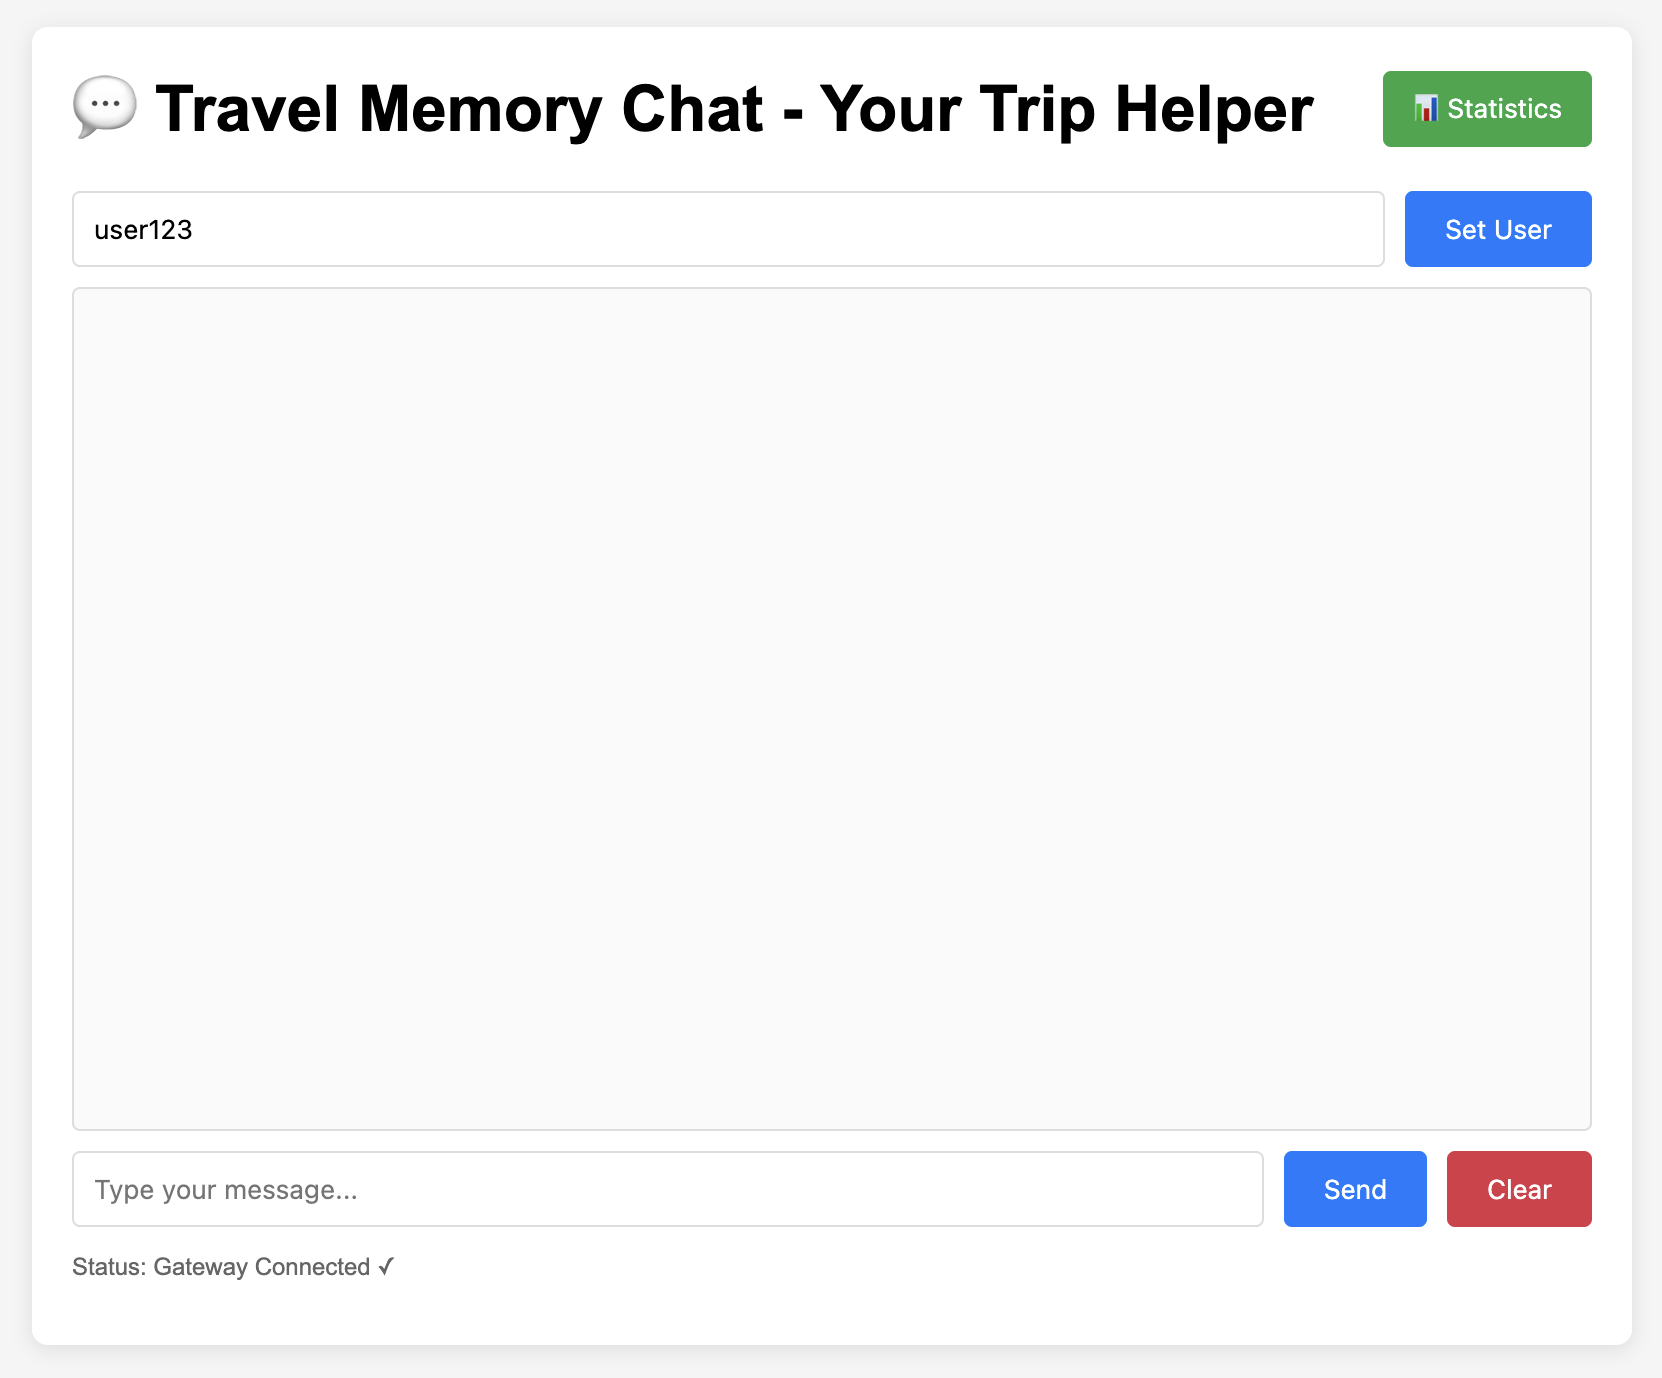
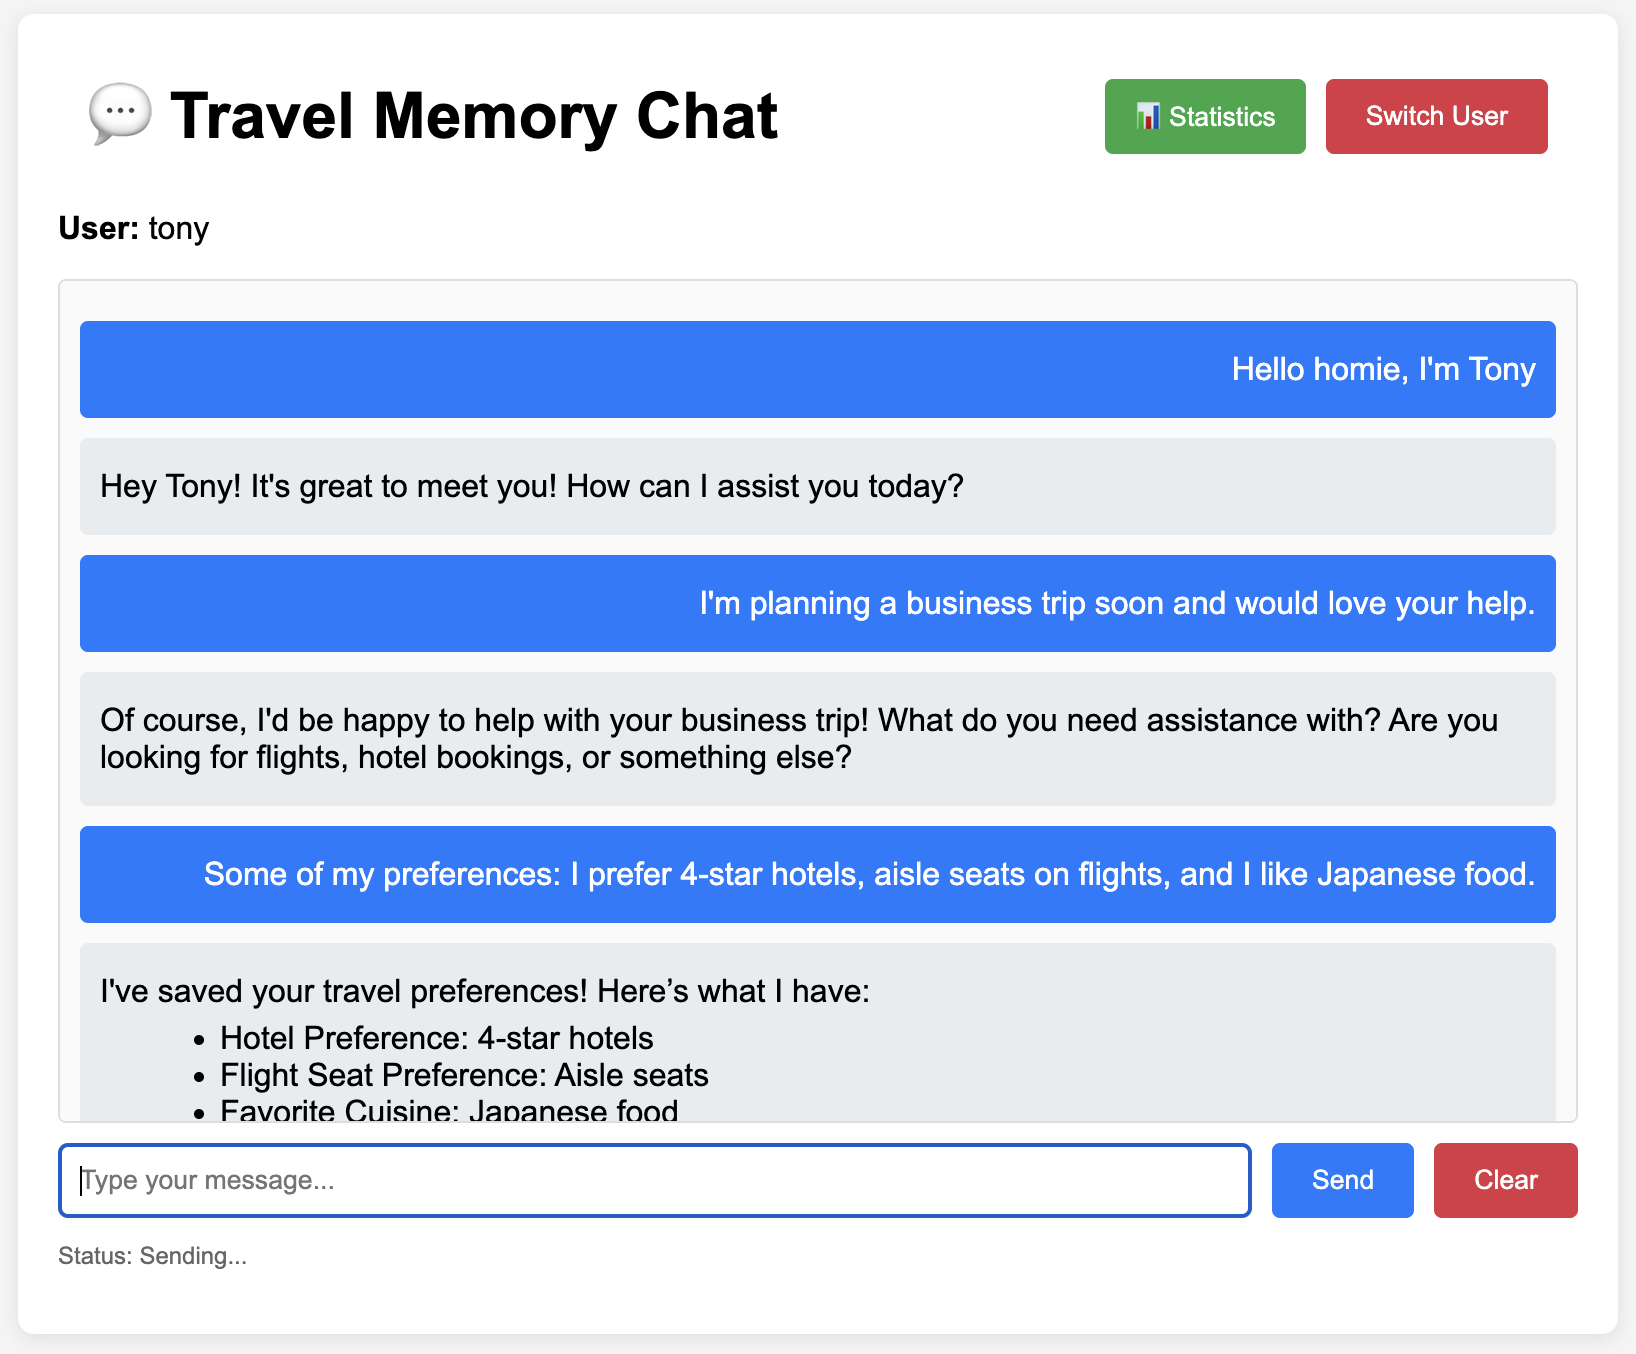
update puppeteer script

diff --git a/puppeteer-runner.js b/puppeteer-runner.js
@@ -172,15 +172,28 @@ const puppeteer = require('puppeteer');
     await page.goto('http://127.0.0.1:8001');
 
 
-    await page.focus('#userIdInput');
-    await page.$eval('#userIdInput', el => el.value = '');
-    await page.type('#userIdInput', 'Tony');
+    // Register & Login 
+    await page.focus('#authUser');
+    await page.$eval('#authUser', el => el.value = '');
+    await page.type('#authUser', 'tony');
+
+    await page.focus('#authPass');
+    await page.$eval('#authPass', el => el.value = '');
+    await page.type('#authPass', 'tony');
 
     await new Promise(resolve => setTimeout(resolve, 2000));
 
     await page.evaluate(() => {
         const btn = [...document.querySelectorAll('button')]
-            .find(b => b.textContent.trim() === 'Set User');
+            .find(b => b.textContent.trim() === 'Register');
+        btn?.click();
+    });
+
+    await new Promise(resolve => setTimeout(resolve, 2000));
+
+    await page.evaluate(() => {
+        const btn = [...document.querySelectorAll('button')]
+            .find(b => b.textContent.trim() === 'Login');
         btn?.click();
     });
 

diff --git a/README.md b/README.md
@@ -7,6 +7,34 @@ It allows different users to store, retrieve, and update their travel preference
 
 On the analytic side, the application summarizes tool usage statistics to support continuous improvement and cost control, answering questions such as  which tool-call sequences happens the more frequently? or which tool incurs most tokens?
 
+## Table of Contents
+1. [System Design](#system-design)
+   - [Architecture Diagram](#architecture-diagram)
+   - [MCP Server](#mcp-server)
+     - [Tools](#tools)
+   - [MCP Client](#mcp-client)
+     - [Command-Line Client](#command-line-client)
+     - [Web Client](#web-client)
+
+2. [Setup, Development, and Usage](#setup-development-and-usage)
+   - [Environment Setup](#environment-setup)
+   - [Dependency Installation](#dependency-installation)
+   - [Running MCP Server & Clients](#running-mcp-server--clients)
+   - [Running Non-Containerized Clients](#running-non-containerized-clients)
+   - [Available Endpoints](#available-endpoints)
+
+3. [Tests](#tests)
+   - [Unit Tests](#unit-tests)
+   - [Integration Tests (LLM-based)](#integration-tests-llm-based)
+   - [End-to-End Scenario (Puppeteer)](#end-to-end-scenario-puppeteer)
+
+4. Deployment
+
+5. [Future Work](#future-work)
+
+6. [Final Thoughts](#final-thoughts)
+
+
 ## System Design
 [diagram]
 
@@ -144,7 +172,6 @@ pipenv install --dev
 
 # MCP functional test
 pytest test/test_server.py test/test_auth_db.py -v -s
-
 ```
 
 Integration testing whether LLM understands the data from, and can correctly interact with, MCP tools.
@@ -172,11 +199,18 @@ npm -v
 npm install puppeteer
 ```
 
-Start testing scenario. This command opens a test browser and run a complete scenario:
+Start testing scenario.
 ```bash
-node puppeteer-runner.js tony
+# use local env to run e2e test
+pipenv shell
+# spin web-client & mcp-server -> run puppeteer
+bash run-puppeteer.sh tony
 ```
-
+## Deployment
+Deploying on Render (see [actions](.github/workflows/deploy.yml) script).
+- MCP - https://context-mcp-server.onrender.com/
+    - anonymous memory overview - https://context-mcp-server.onrender.com/memory_overview
+- Web-Client - https://context-web-client.onrender.com/
 
 
 ## Future Work
